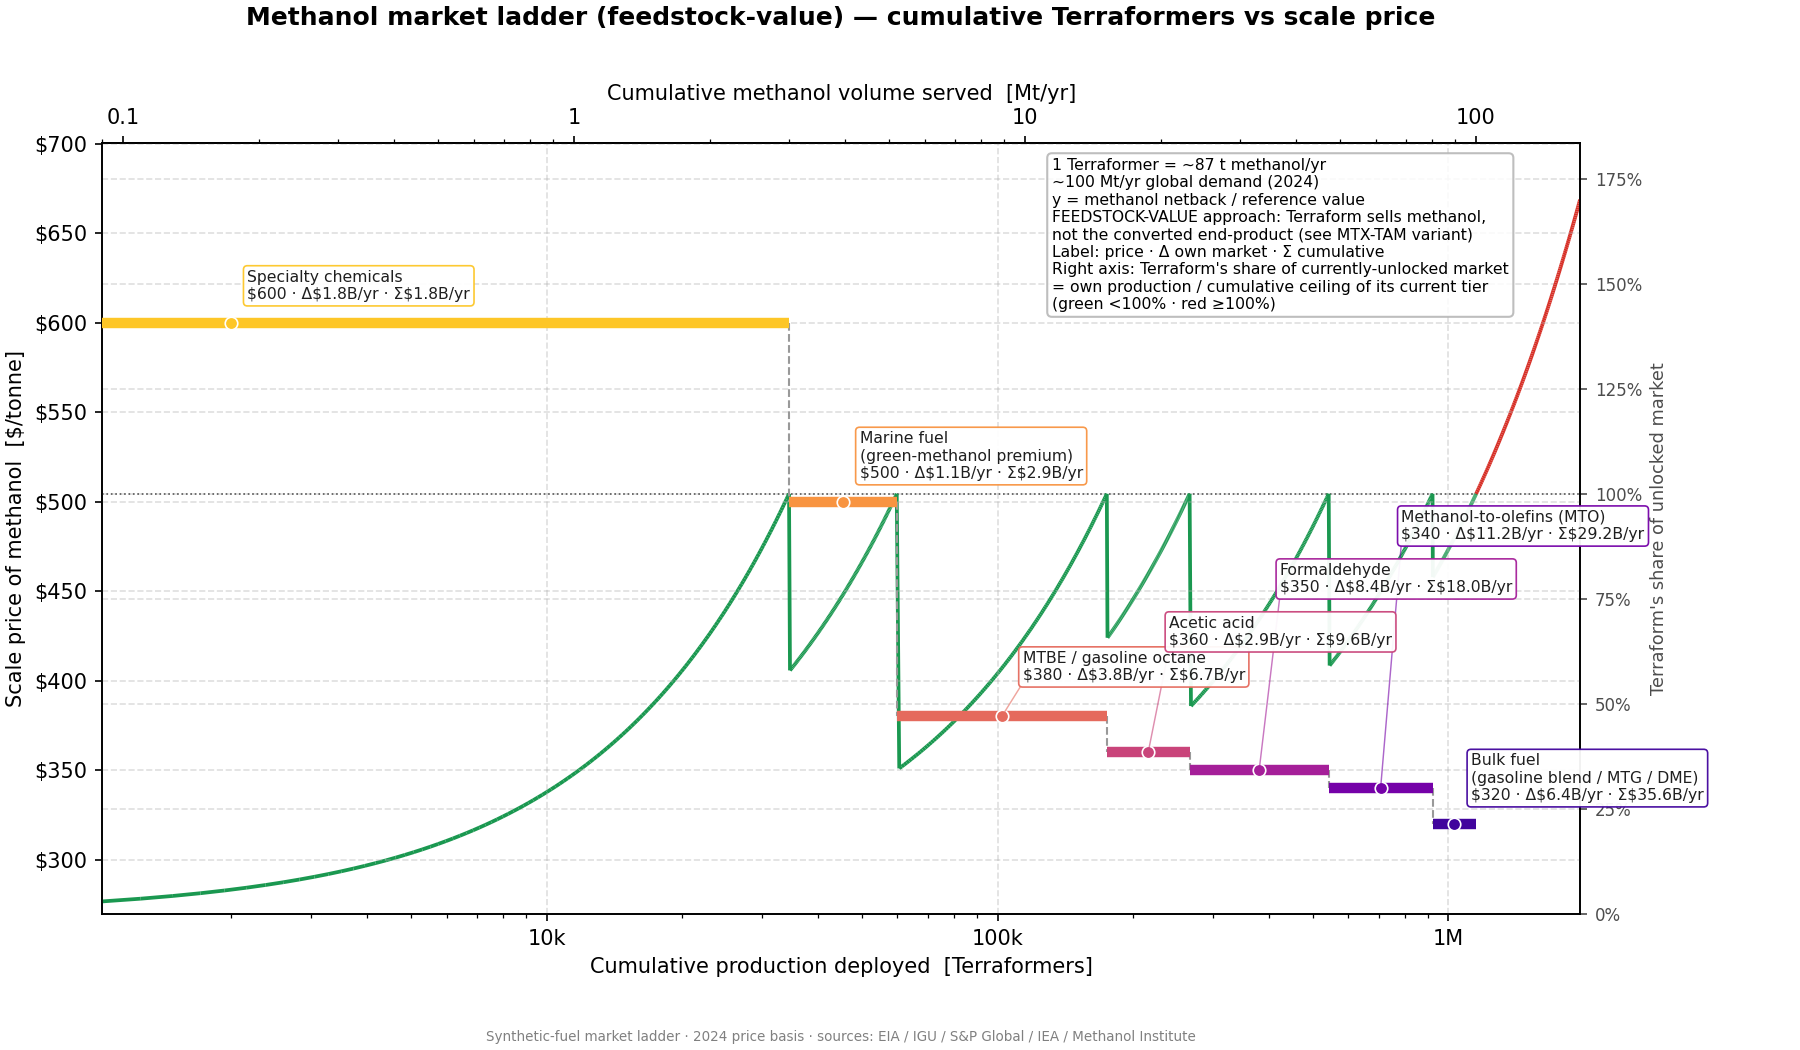
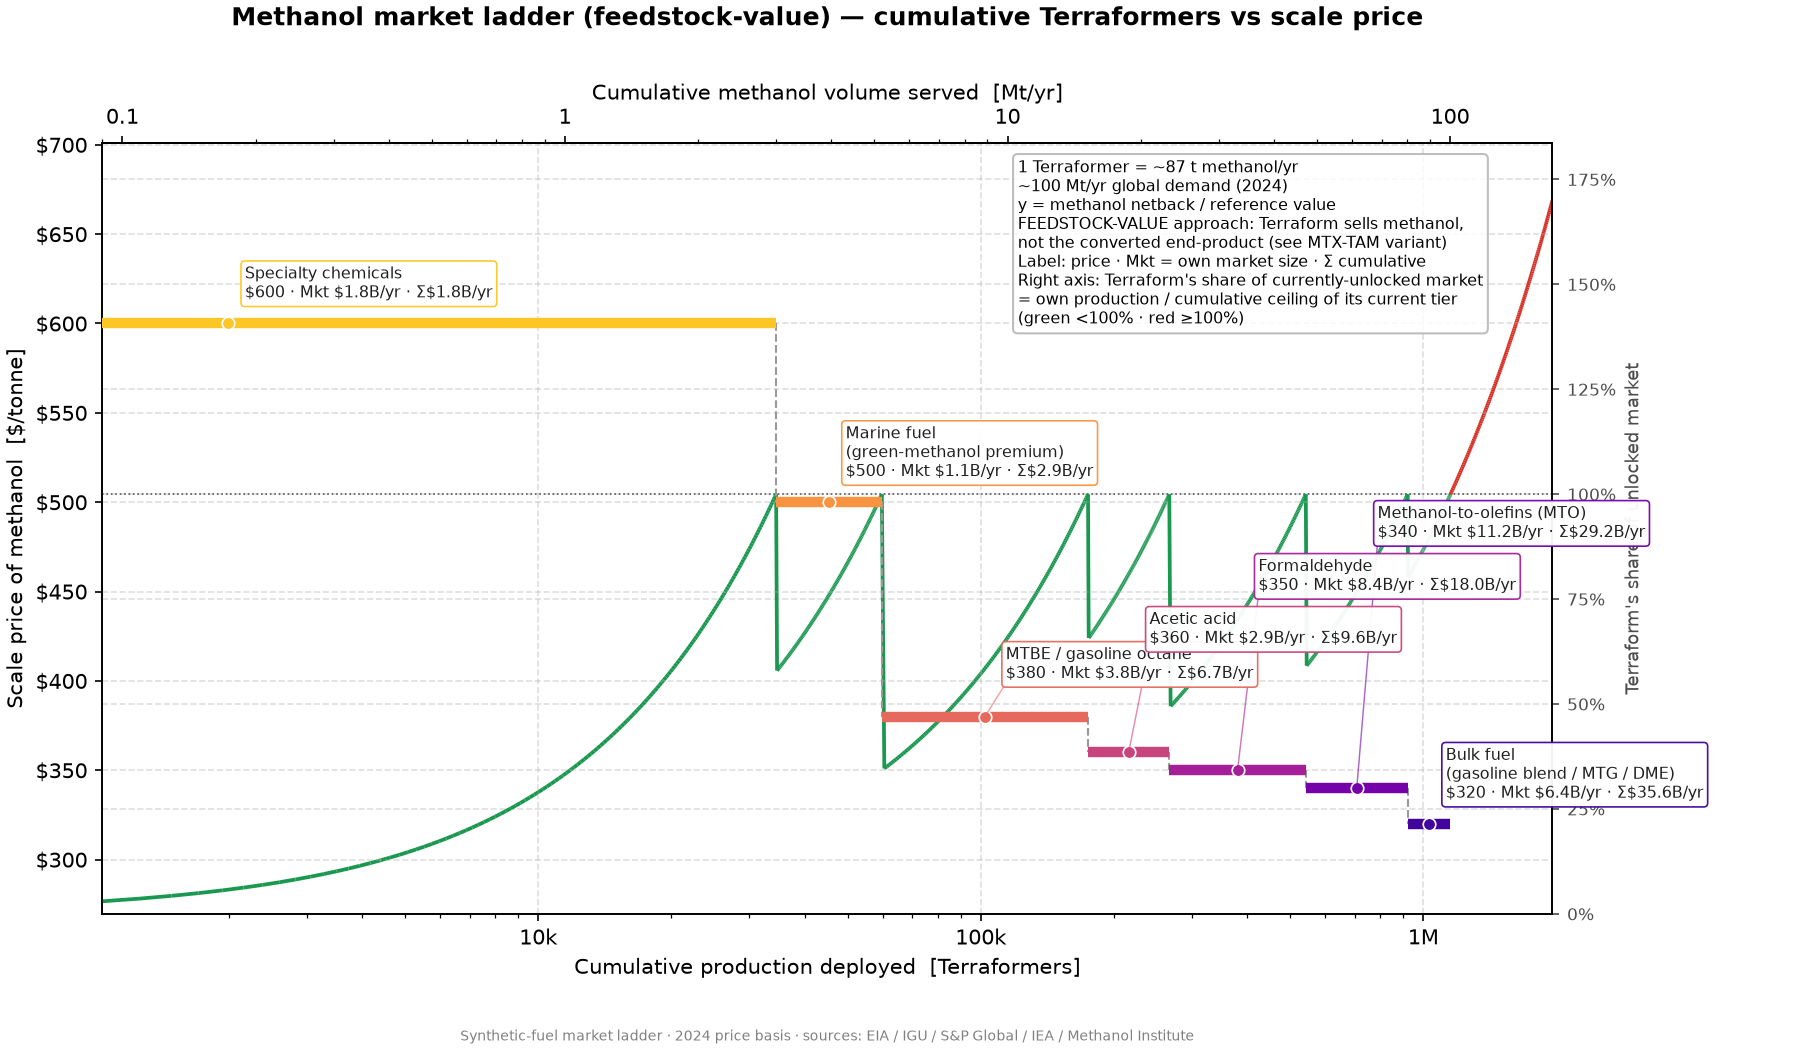
Show absolute market size in market-ladder step labels
Each step's annotation already computed price x volume as the tier's
own dollar value but only surfaced it as a terse "Δ" delta; relabel it
as "Mkt" so the absolute size of that market is explicit alongside the
existing cumulative Σ figure.

diff --git a/Terraform-Market-Ladder/terraformer_market_ladder.py b/Terraform-Market-Ladder/terraformer_market_ladder.py
@@ -385,7 +385,7 @@ def draw(ax, fig, steps: list[LadderStep], *, title: str, y_label: str, x_top_la
     # Pass 2 — text + boxes, zorder above every arrow drawn in pass 1.
     for s, c, xmid, dx, dy, ha, va in anchors:
         label = (f"{s.name}\n{price_fmt(s.price)}"
-                 f" · Δ{_fmt_dollars(s.dollars_per_year)}"
+                 f" · Mkt {_fmt_dollars(s.dollars_per_year)}"
                  f" · Σ{_fmt_dollars(s.cumulative_dollars_per_year)}")
         bbox = dict(boxstyle="round,pad=0.25", fc="white", ec=c, lw=0.8, alpha=0.95)
         ax.annotate(label, xy=(xmid, s.price), xytext=(dx, dy), textcoords="offset points",
@@ -457,7 +457,7 @@ def figures():
                       "Prices: 2024 basis ($/MMBtu)\n"
                       "Volumes: GLOBAL, non-overlapping (de-double-counted)\n"
                       "IEA/IGU sector shares + Henry Hub as global floor price\n"
-                      "Label: price · Δ own market · Σ cumulative\n"
+                      "Label: price · Mkt = own market size · Σ cumulative\n"
                       "Right axis: Terraform's share of currently-unlocked market\n"
                       "= own production / cumulative ceiling of its current tier\n"
                       "(green <100% · red ≥100%)")
@@ -474,7 +474,7 @@ def figures():
                        "y = methanol netback / reference value\n"
                        "FEEDSTOCK-VALUE approach: Terraform sells methanol,\n"
                        "not the converted end-product (see MTX-TAM variant)\n"
-                       "Label: price · Δ own market · Σ cumulative\n"
+                       "Label: price · Mkt = own market size · Σ cumulative\n"
                        "Right axis: Terraform's share of currently-unlocked market\n"
                        "= own production / cumulative ceiling of its current tier\n"
                        "(green <100% · red ≥100%)")
@@ -500,7 +500,7 @@ def figures():
                        "Non-MTX tiers still feedstock-value (unchanged)\n"
                        "Conversion ratios: MTG 2.584 (sourced, Motunui); others\n"
                        "2.9 (MTO rule-of-thumb, extended to diesel/jet — ASSUMPTION)\n"
-                       "Label: price · Δ own market · Σ cumulative\n"
+                       "Label: price · Mkt = own market size · Σ cumulative\n"
                        "Right axis: Terraform's share of currently-unlocked market\n"
                        "= own production / cumulative ceiling of its current tier\n"
                        "(green <100% · red ≥100%)")
